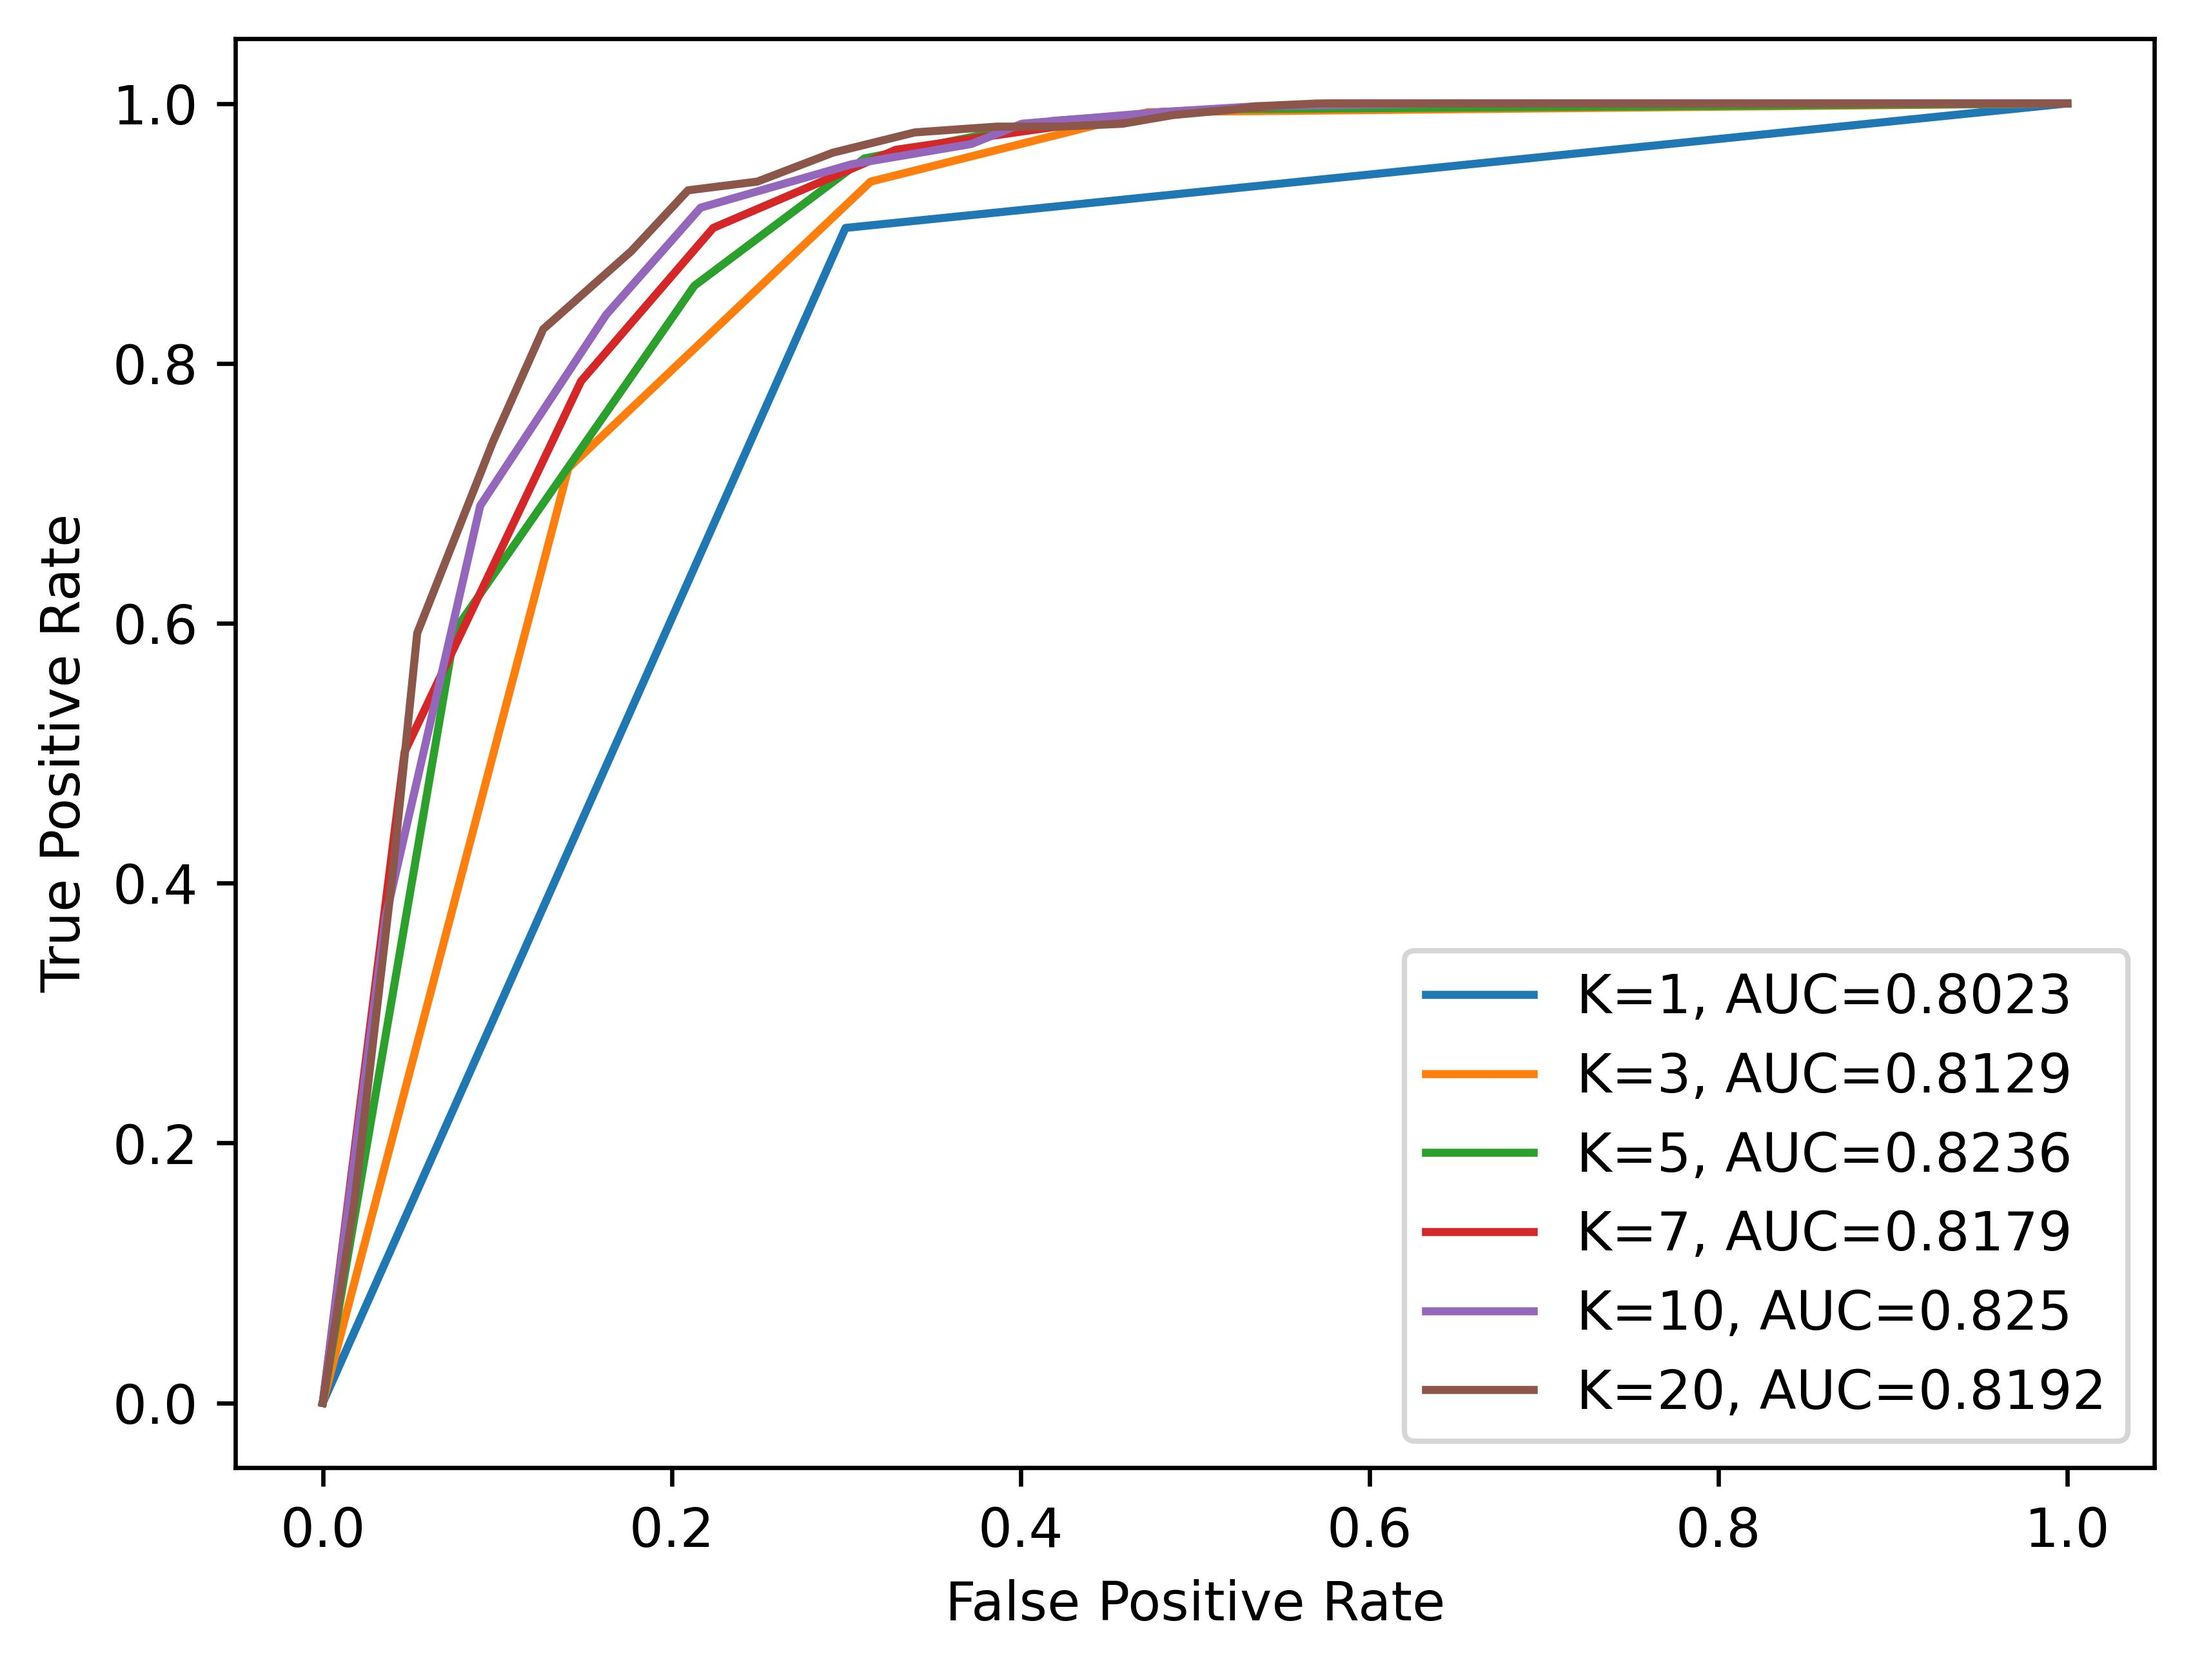
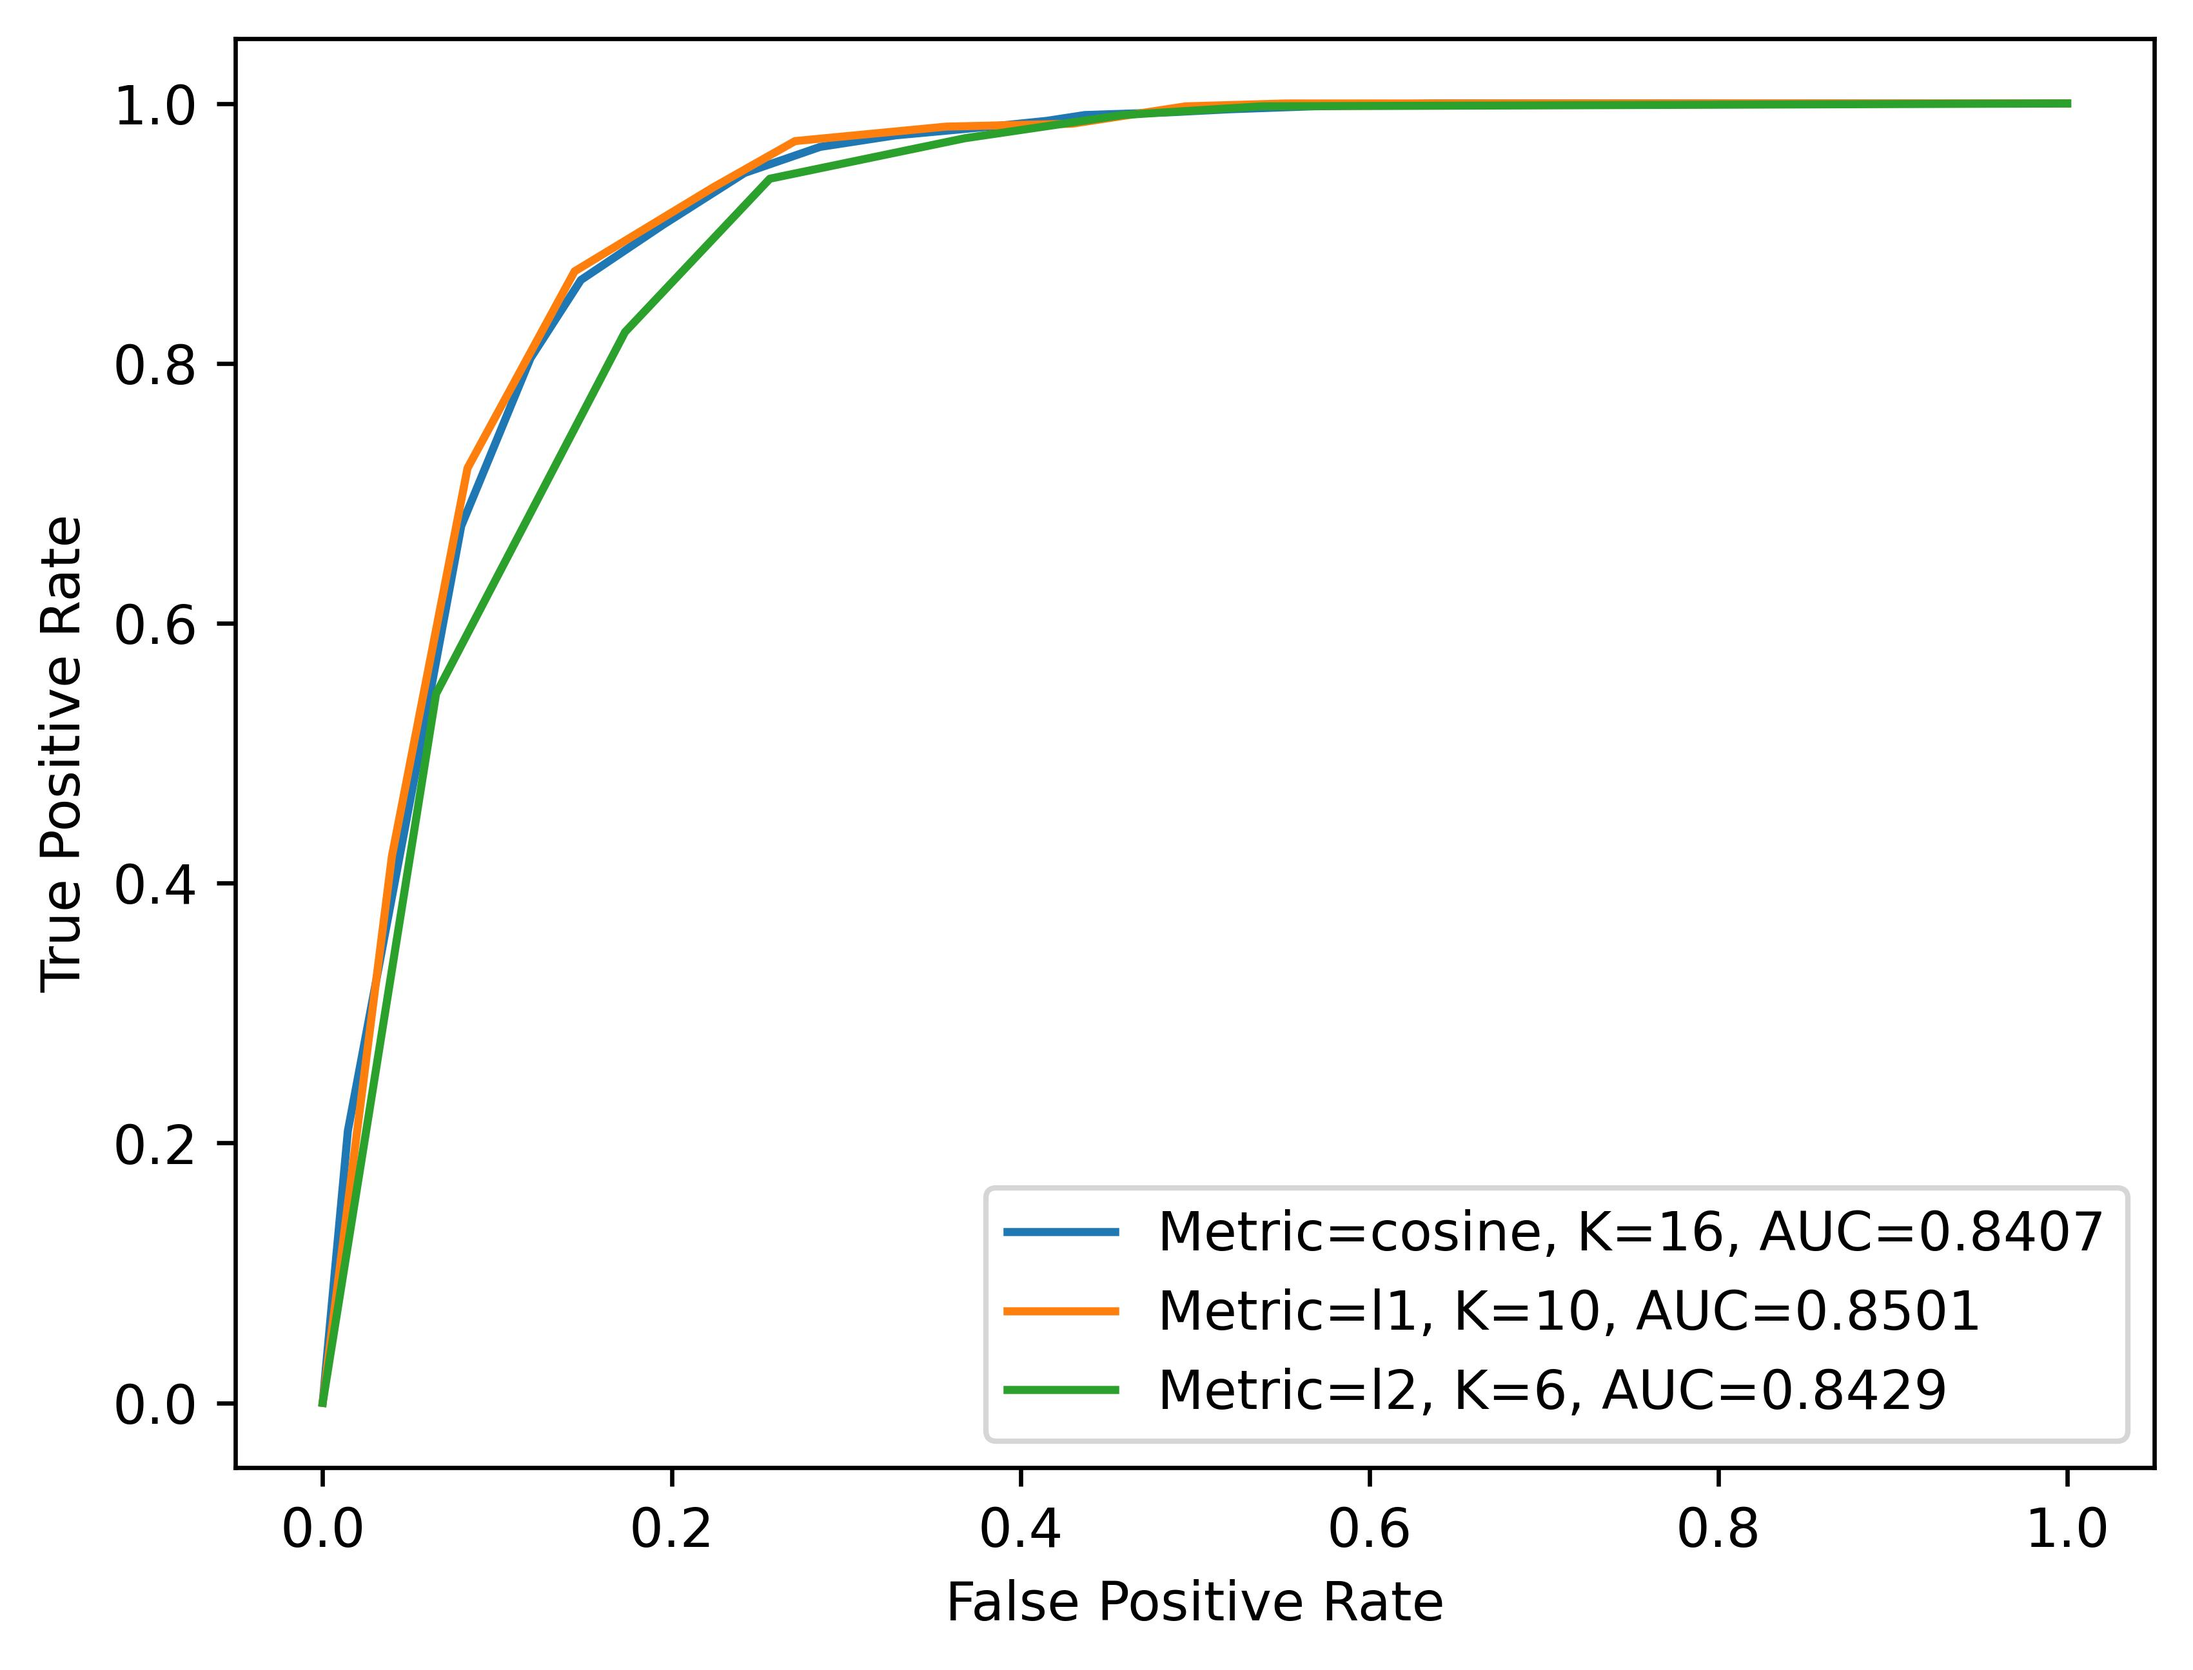
finalize distance metric stuff

diff --git a/scripts/distance_metric.py b/scripts/distance_metric.py
@@ -1,0 +1,87 @@
+from sklearn.neighbors import KNeighborsClassifier
+from sklearn.model_selection import train_test_split
+
+import os
+import numpy as np
+import matplotlib.pyplot as plt
+import pathlib
+import pandas as pd
+import seaborn as sns
+
+from sklearn import metrics
+from sklearn.metrics import precision_score, accuracy_score, confusion_matrix, ConfusionMatrixDisplay
+
+ROOT = pathlib.Path(__file__).parent.parent.resolve().joinpath("data")
+OUTPUT = pathlib.Path(__file__).parent.parent.resolve().joinpath("figs\distance")
+
+DATA_FILE = ROOT.joinpath("data_normal.csv")
+
+if not DATA_FILE.is_file():
+    import preprocess
+
+data = pd.read_csv(DATA_FILE)
+
+# Create feature and target arrays
+X = data.drop(columns = ['Target'])
+y = data['Target']
+
+# Split into training and test set
+X_train, X_test, y_train, y_test = train_test_split(X, y, test_size = 0.2, random_state=42)
+
+metrics_list = ['cosine', 'l1', 'l2']
+name = ['Cosine', 'L1', 'L2']
+
+for m in range(3):
+    neighbors = np.arange(1, 21)
+    train_accuracy = np.empty(len(neighbors))
+    test_accuracy = np.empty(len(neighbors))
+    best_acc = 0
+    best_k = 0
+    for i, k in enumerate(neighbors):
+        model = KNeighborsClassifier(n_neighbors=k, metric=metrics_list[m])
+        model.fit(X_train, y_train)
+        predictions = model.predict(X_test)
+
+        cur_acc = metrics.accuracy_score(y_test, predictions)
+        if (cur_acc > best_acc):
+            best_acc = cur_acc
+            best_k = k
+    
+        train_accuracy[i] = model.score(X_train, y_train)
+        test_accuracy[i] = model.score(X_test, y_test)    
+
+    print('Best k for ' + name[m] + ': ' + str(best_k))
+
+    model = KNeighborsClassifier(n_neighbors=best_k, metric=metrics_list[m])
+    model.fit(X_train, y_train)
+    predictions = model.predict(X_test)
+    write_file = OUTPUT.joinpath(name[m] + "_result.txt")
+    if not write_file.is_file():
+        open(write_file, 'x')
+    with open(write_file, 'w') as f:
+        f.write('Evaluation Metrics for ' + name[m] + ':\n')
+        f.write('Accuracy: ' + str(metrics.accuracy_score(y_test, predictions)) + '\n')
+        f.write('Recall: ' + str(metrics.recall_score(y_test, predictions)) + '\n')
+        f.write('F1 Score: ' + str(metrics.f1_score(y_test, predictions)) + '\n')
+        f.write('Precision: ' + str(metrics.precision_score(y_test, predictions)) + '\n')
+        
+    # Confusion Matrix
+    cm = confusion_matrix(y_test, predictions, labels = None)
+    #sns.set(font_scale=2)
+    disp = ConfusionMatrixDisplay(confusion_matrix = cm, display_labels = None)
+    disp.plot()
+    plt.grid(False)
+    plt.title("KNN using " + name[m] + " metric (k=" + str(best_k) + ")")
+    #plt.savefig(OUTPUT.joinpath(name[m] + "_confusion_matrix.jpg"), bbox_inches = "tight", transparent = True, dpi = 600)
+    plt.close()
+
+    # graph of k vs accuracy
+    plt.plot(neighbors, test_accuracy, label = name[m] + ' Testing dataset Accuracy')
+    plt.plot(neighbors, train_accuracy, label = name[m] + ' Training dataset Accuracy')
+
+    plt.legend()
+    plt.xlabel('n_neighbors')
+    plt.ylabel('Accuracy')
+    #plt.savefig(OUTPUT.joinpath(m + "_neighbors_vs_accuracy.jpg"), bbox_inches = "tight", transparent = True, dpi = 600)
+    #plt.close()
+plt.savefig(OUTPUT.joinpath("neighbors_vs_accuracy.jpg"), bbox_inches = "tight", transparent = True, dpi = 600)

diff --git a/scripts/roc_curve.py b/scripts/roc_curve.py
@@ -27,15 +27,18 @@ y = data['Target']
 # Split into training and test set
 X_train, X_test, y_train, y_test = train_test_split(X, y, test_size = 0.2, random_state=42)
 
-for k in [1, 3, 5, 7, 10, 20]:
-    model = KNeighborsClassifier(n_neighbors=k)
+metrics_list = ['cosine', 'l1', 'l2']
+k = [16, 10, 6]
+
+for i in range(3):
+    model = KNeighborsClassifier(n_neighbors=k[i], metric=metrics_list[i])
     model.fit(X_train, y_train)
     y_pred = model.predict(X_test)
     y_pred_proba = model.predict_proba(X_test)[::, 1]
     fpr, tpr, _ = metrics.roc_curve(y_test, y_pred_proba)
     auc = round(metrics.roc_auc_score(y_test, y_pred), 4)
     
-    plt.plot(fpr, tpr, label = "K=" + str(k) + ", AUC=" + str(auc))
+    plt.plot(fpr, tpr, label = "Metric=" + metrics_list[i] + ", K=" + str(k[i]) + ", AUC=" + str(auc))
     
 plt.ylabel('True Positive Rate')
 plt.xlabel('False Positive Rate')

diff --git a/scripts/tsne.py b/scripts/tsne.py
@@ -22,7 +22,7 @@ data = pd.read_csv(DATA_FILE)
 X = data.drop(columns = ['Target'])
 y = data['Target']
 
-tsne = TSNE(n_components=2, random_state=42, init='pca')
+tsne = TSNE(n_components=2, random_state=42, init='pca', perplexity=10, early_exaggeration=24, metric='l1')
 X_tsne = tsne.fit_transform(X)
 
 x_0 = []
@@ -38,12 +38,10 @@ for i in range(y.size):
         x_1.append(X_tsne[i, 0])
         y_1.append(X_tsne[i, 1])
 
-plt.scatter(x=x_0, y=y_0, c='red', label='Dropout')
-plt.scatter(x=x_1, y=y_1, c='blue', label='Graduate')
+plt.scatter(x=x_0, y=y_0, c='tab:red', label='Dropout')
+plt.scatter(x=x_1, y=y_1, c='tab:green', label='Graduate')
 plt.ylabel('Second t-SNE')
 plt.xlabel('First t-SNE')
 plt.legend()
-
-plt.show()
-
+plt.savefig(OUTPUT.joinpath("tsne.jpg"), bbox_inches = "tight", transparent = True, dpi = 600)
 

diff --git a/scripts/boxplot_raw.py b/scripts/boxplot_raw.py
@@ -11,5 +11,4 @@ data = pd.read_csv(ROOT.joinpath("data_raw.csv"))
 fig = plt.figure()
 ax = fig.add_axes([0, 0, 1, 1])
 bp = ax.boxplot(data.iloc[:, :36])
-plt.show()
-#plt.savefig(OUTPUT.joinpath("boxplot_raw.jpg"), bbox_inches = "tight", transparent = True, dpi = 600)
+plt.savefig(OUTPUT.joinpath("boxplot_raw.jpg"), bbox_inches = "tight", transparent = True, dpi = 600)
